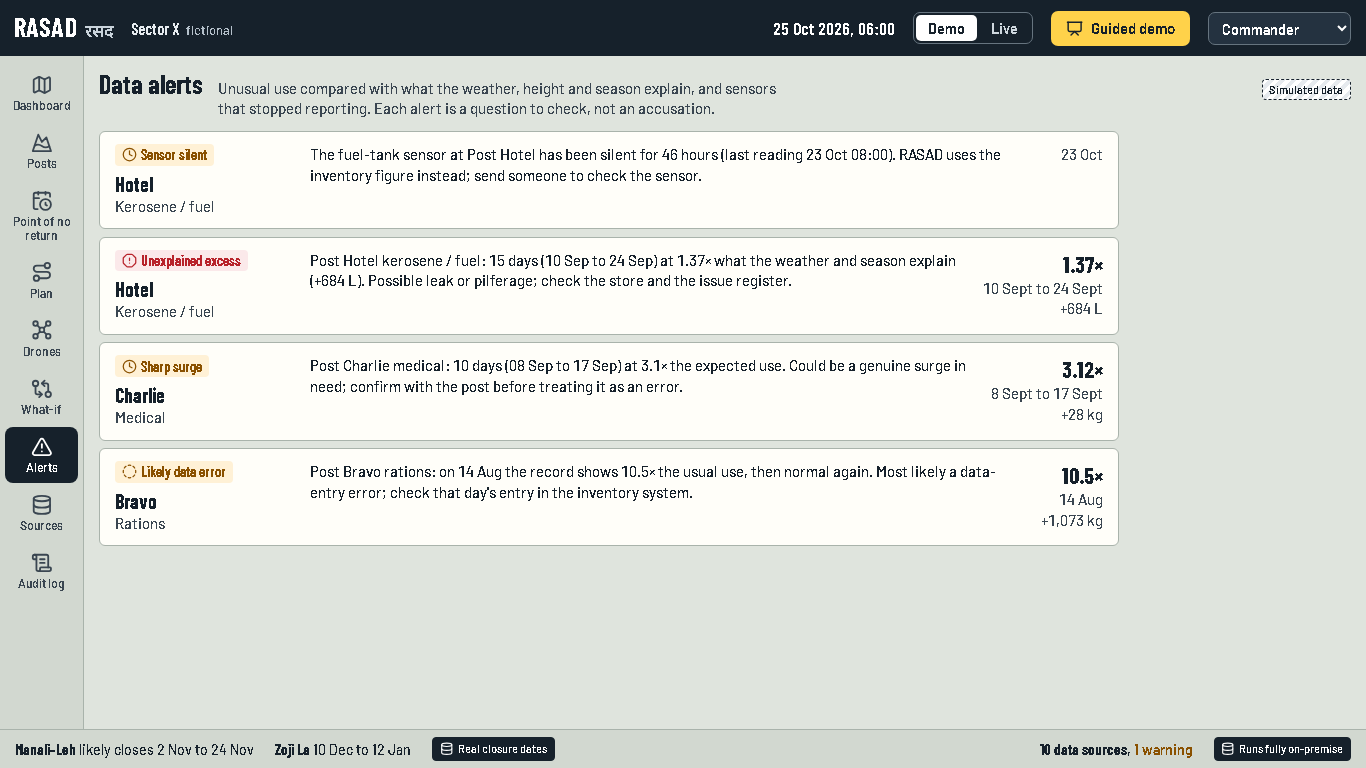
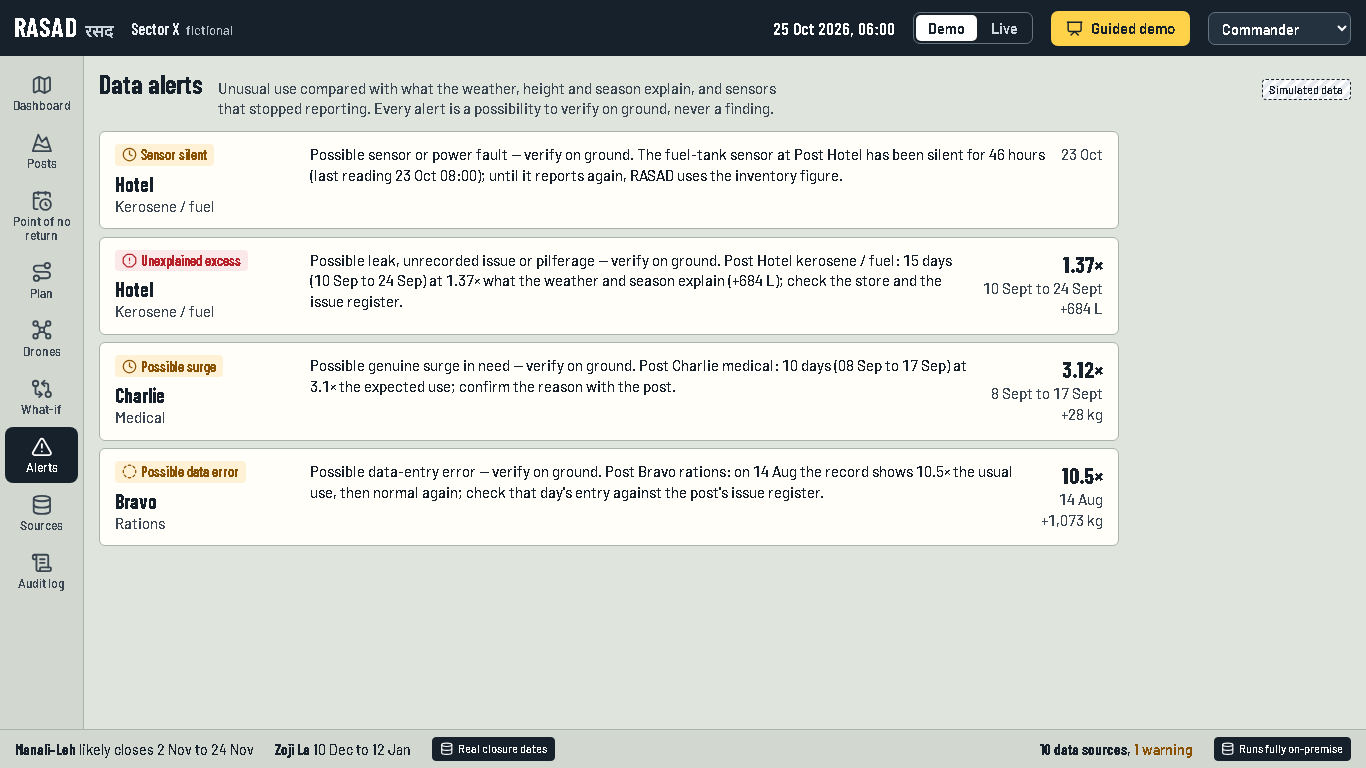
Alerts worded as 'Possible ... - verify on ground', never an accusation
Every alert text now starts with 'Possible ...' and asks for a check on
ground; selfcheck enforces it. Screenshots 01 and 09 recaptured.

diff --git a/frontend/src/screens/Alerts.tsx b/frontend/src/screens/Alerts.tsx
@@ -4,7 +4,7 @@ import { Badge, Chip, ErrorNote, Skeleton } from '../ui'
 
 const LOOK: Record<string, [string, string]> = {
   'silent sensor': ['warning', 'Sensor silent'], 'steady excess': ['urgent', 'Unexplained excess'],
-  'sharp surge': ['watch', 'Sharp surge'], 'data error': ['margin', 'Likely data error'],
+  'sharp surge': ['watch', 'Possible surge'], 'data error': ['margin', 'Possible data error'],
 }
 
 export default function Alerts() {
@@ -15,7 +15,7 @@ export default function Alerts() {
     <div className="page">
       <div className="page-head">
         <h1>Data alerts</h1>
-        <p>Unusual use compared with what the weather, height and season explain, and sensors that stopped reporting. Each alert is a question to check, not an accusation.</p>
+        <p>Unusual use compared with what the weather, height and season explain, and sensors that stopped reporting. Every alert is a possibility to verify on ground, never a finding.</p>
         <span className="tools"><Chip kind="sim" label="Simulated data" /></span>
       </div>
       {!alerts.data ? <Skeleton h={300} label="Checking every post's consumption" /> : alerts.data.length === 0 ? (

diff --git a/frontend/src/screens/Dashboard.tsx b/frontend/src/screens/Dashboard.tsx
@@ -78,7 +78,7 @@ export default function Dashboard() {
           {S && (
             <div className="stocked">
               {alerts.data && alerts.data.length > 0 && (
-                <p style={{ margin: '0 0 .5rem' }}><a href="#/alerts"><b>{alerts.data.length} data alerts</b></a>: {alerts.data.map((a) => `${a.post_name.replace('Post ', '')} ${a.kind}`).join(', ')}</p>
+                <p style={{ margin: '0 0 .5rem' }}><a href="#/alerts"><b>{alerts.data.length} data alerts to verify on ground</b></a>: {[...new Set(alerts.data.map((a) => a.post_name.replace('Post ', '')))].join(', ')}</p>
               )}
               <h2>Stocked until the routes reopen</h2>
               <ul>

diff --git a/backend/anomaly.py b/backend/anomaly.py
@@ -69,14 +69,15 @@ def run(mode: str = "demo") -> list[dict]:
                     when = f"{d0:%d %b}" if days == 1 else f"{d0:%d %b} to {d1:%d %b}"
                     who = f"{names[post]} {c['label'].lower()}"
                     if not is_run:
-                        kind, plain = "data error", (f"{who}: on {when} the record shows {ratio:.1f}× the usual use, then normal again. "
-                                                     "Most likely a data-entry error; check that day's entry in the inventory system.")
+                        kind, plain = "data error", (f"Possible data-entry error — verify on ground. {who}: on {when} the record shows "
+                                                     f"{ratio:.1f}× the usual use, then normal again; check that day's entry against the post's issue register.")
                     elif ratio >= SURGE_RATIO:
-                        kind, plain = "sharp surge", (f"{who}: {days} days ({when}) at {ratio:.1f}× the expected use. Could be a genuine "
-                                                      "surge in need; confirm with the post before treating it as an error.")
+                        kind, plain = "sharp surge", (f"Possible genuine surge in need — verify on ground. {who}: {days} days ({when}) at "
+                                                      f"{ratio:.1f}× the expected use; confirm the reason with the post.")
                     else:
-                        kind, plain = "steady excess", (f"{who}: {days} days ({when}) at {ratio:.2f}× what the weather and season explain "
-                                                        f"(+{extra:,.0f} {c['unit']}). Possible leak or pilferage; check the store and the issue register.")
+                        kind, plain = "steady excess", (f"Possible leak, unrecorded issue or pilferage — verify on ground. {who}: {days} days "
+                                                        f"({when}) at {ratio:.2f}× what the weather and season explain (+{extra:,.0f} {c['unit']}); "
+                                                        "check the store and the issue register.")
                     alerts.append({"post": post, "post_name": names[post], "class": cls, "label": c["label"], "unit": c["unit"],
                                    "kind": kind, "start": str(d0.date()), "end": str(d1.date()), "days": days,
                                    "ratio": round(ratio, 2), "extra": round(extra, 1), "plain": plain})
@@ -92,7 +93,8 @@ def run(mode: str = "demo") -> list[dict]:
                 hours = (pd.Timestamp(db.PARAMS["demo"]["now"]) - pd.Timestamp(last[post])).total_seconds() / 3600
                 alerts.append({"post": post, "post_name": names[post], "class": "kerosene", "label": "Kerosene / fuel", "unit": "L",
                                "kind": "silent sensor", "start": last[post][:10], "end": last[post][:10], "days": 0, "ratio": None,
-                               "extra": None, "plain": f"The fuel-tank sensor at {names[post]} has been silent for {hours:.0f} hours (last reading "
-                               f"{pd.Timestamp(last[post]):%d %b %H:%M}). RASAD uses the inventory figure instead; send someone to check the sensor."})
+                               "extra": None, "plain": f"Possible sensor or power fault — verify on ground. The fuel-tank sensor at {names[post]} has "
+                               f"been silent for {hours:.0f} hours (last reading {pd.Timestamp(last[post]):%d %b %H:%M}); until it reports again, "
+                               "RASAD uses the inventory figure."})
     order = {"silent sensor": 0, "steady excess": 1, "sharp surge": 2, "data error": 3}
     return sorted(alerts, key=lambda a: (order[a["kind"]], a["start"]), reverse=False)

diff --git a/backend/selfcheck.py b/backend/selfcheck.py
@@ -132,6 +132,8 @@ def check_alerts():
     assert found[("PH", "kerosene")]["kind"] in ("silent sensor", "steady excess")
     assert any(a["kind"] == "silent sensor" and a["post"] == "PH" for a in anomaly.run("demo")), "Hotel's silent sensor"
     assert len(anomaly.run("demo")) <= 6, "few false alarms"
+    for a in anomaly.run("demo"):  # never worded as a confirmed accusation
+        assert a["plain"].startswith("Possible ") and "verify on ground" in a["plain"], a["plain"]
 
 
 if __name__ == "__main__":

diff --git a/docs/EXPLAIN_SIMPLY.md b/docs/EXPLAIN_SIMPLY.md
@@ -86,7 +86,7 @@ Model batata hai ki mausam, oonchai aur mausam-ke-din ke hisaab se roz kitni kha
 - **Kai din bahut zyada** → shayad asli zaroorat (jaise altitude sickness). Demo: Charlie dawai, 3.1×.
 - **Sensor chup** → Hotel ka fuel sensor 46 ghante se chup hai; RASAD inventory ka number use karta hai.
 
-Har item ki apni "roz ki ghata-badhi" hoti hai (dawai zyada uchhalti hai, ration kam), isliye seema usi hisaab se tay hoti hai. Isse galat alarm nahi aate: demo data mein jaan-boojh kar daali gayi teeno anomalies pakdi gayi aur ek bhi galat alarm nahi aaya. Alert sirf ek sawal hai, ilzaam nahi.
+Har item ki apni "roz ki ghata-badhi" hoti hai (dawai zyada uchhalti hai, ration kam), isliye seema usi hisaab se tay hoti hai. Isse galat alarm nahi aate: demo data mein jaan-boojh kar daali gayi teeno anomalies pakdi gayi aur ek bhi galat alarm nahi aaya. Alert sirf ek sawal hai, ilzaam nahi: har alert "Possible … — verify on ground" se shuru hota hai, aur faisla zameen par jaanch ke baad insaan karta hai.
 
 ## 9. Commander ka faisla aur audit log
 
